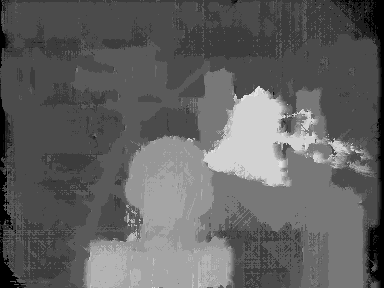
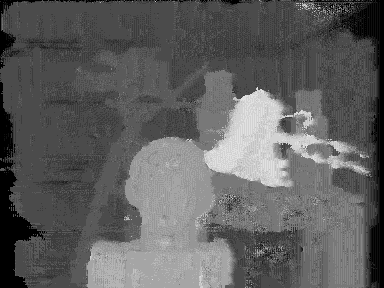
Add SGM 16 pass

diff --git a/cost_computation/SGM.py b/cost_computation/SGM.py
@@ -29,12 +29,12 @@ def cost_volume(left_image, right_image, depth):
 
 def aggregate_cost_volume(left_costvolume, right_costvolume):
 
-    forward_pass = [(1, 0), (0, 1), (1, 1), (1, -1)]
-    backward_pass = [(-1, 0), (0, -1), (-1, -1), (-1, 1)]
+    forward_pass = [(1, 0), (0, 1), (1, 1), (1, -1), (0, 2), (0, 3), (1, 2), (1, -2)]
+    backward_pass = [(-1, 0), (0, -1), (-1, -1), (-1, 1), (0, -2), (0, -3), (-1, 2), (-1, -2)]
     p1 = 5
     p2 = 150
     height, width, depth = left_costvolume.shape 
-    aggregated_costs =np.zeros((height, width, depth, 8))
+    aggregated_costs =np.zeros((height, width, depth, 16))
 
     for index, (i, j) in tqdm(enumerate(forward_pass)):
         for h in range(height):
@@ -53,10 +53,10 @@ def aggregate_cost_volume(left_costvolume, right_costvolume):
                 for d in range(depth):
                     if (h-i>=0 and h-i<height and w-j>=0 and w-j<width):
                         disparity_value =  left_costvolume[h-i, w-j, d]
-                        L_value_1 = aggregated_costs[h-i, w-j,d-1,index+4] if d-1 >= 0 else np.inf
-                        L_value_2 = aggregated_costs[h-i, w-j,d+1,index+4] if d+1 < depth else np.inf    
-                        min_value1 = np.min(aggregated_costs[h-i, w-j,:,index+4])
-                        aggregated_costs[h,w,d,index+4] += disparity_value + min(aggregated_costs[h-i, w-j,d,index+4] , L_value_1 + p1 , L_value_2+ p1 , min_value1 + p2) - min_value1
+                        L_value_1 = aggregated_costs[h-i, w-j,d-1,index+8] if d-1 >= 0 else np.inf
+                        L_value_2 = aggregated_costs[h-i, w-j,d+1,index+8] if d+1 < depth else np.inf    
+                        min_value1 = np.min(aggregated_costs[h-i, w-j,:,index+8])
+                        aggregated_costs[h,w,d,index+8] += disparity_value + min(aggregated_costs[h-i, w-j,d,index+4] , L_value_1 + p1 , L_value_2+ p1 , min_value1 + p2) - min_value1
 
     aggregated_volume = aggregated_costs.mean(axis=3)
         

diff --git a/main.py b/main.py
@@ -5,7 +5,7 @@ from cost_computation import AD, SD, SAD, SSD, ASW, SGM
 parser = argparse.ArgumentParser()
 
 parser.add_argument('--dataset', default='tsukuba', help='data name')
-parser.add_argument('--costmethod', default='ASW', help='cost computation method')
+parser.add_argument('--costmethod', default='SGM', help='cost computation method')
 
 args = parser.parse_args()
 
@@ -26,7 +26,7 @@ def main():
     if args.costmethod == 'SSD':    
         SSD(left_image, right_image, depth, 3)
     if args.costmethod == 'ASW':    
-        ASW(left_image, right_image, depth, 33, speculer=False)
+        ASW(left_image, right_image, depth, 33, specular=False)
     if args.costmethod == 'SGM':    
         SGM(left_image, right_image, depth)
 
